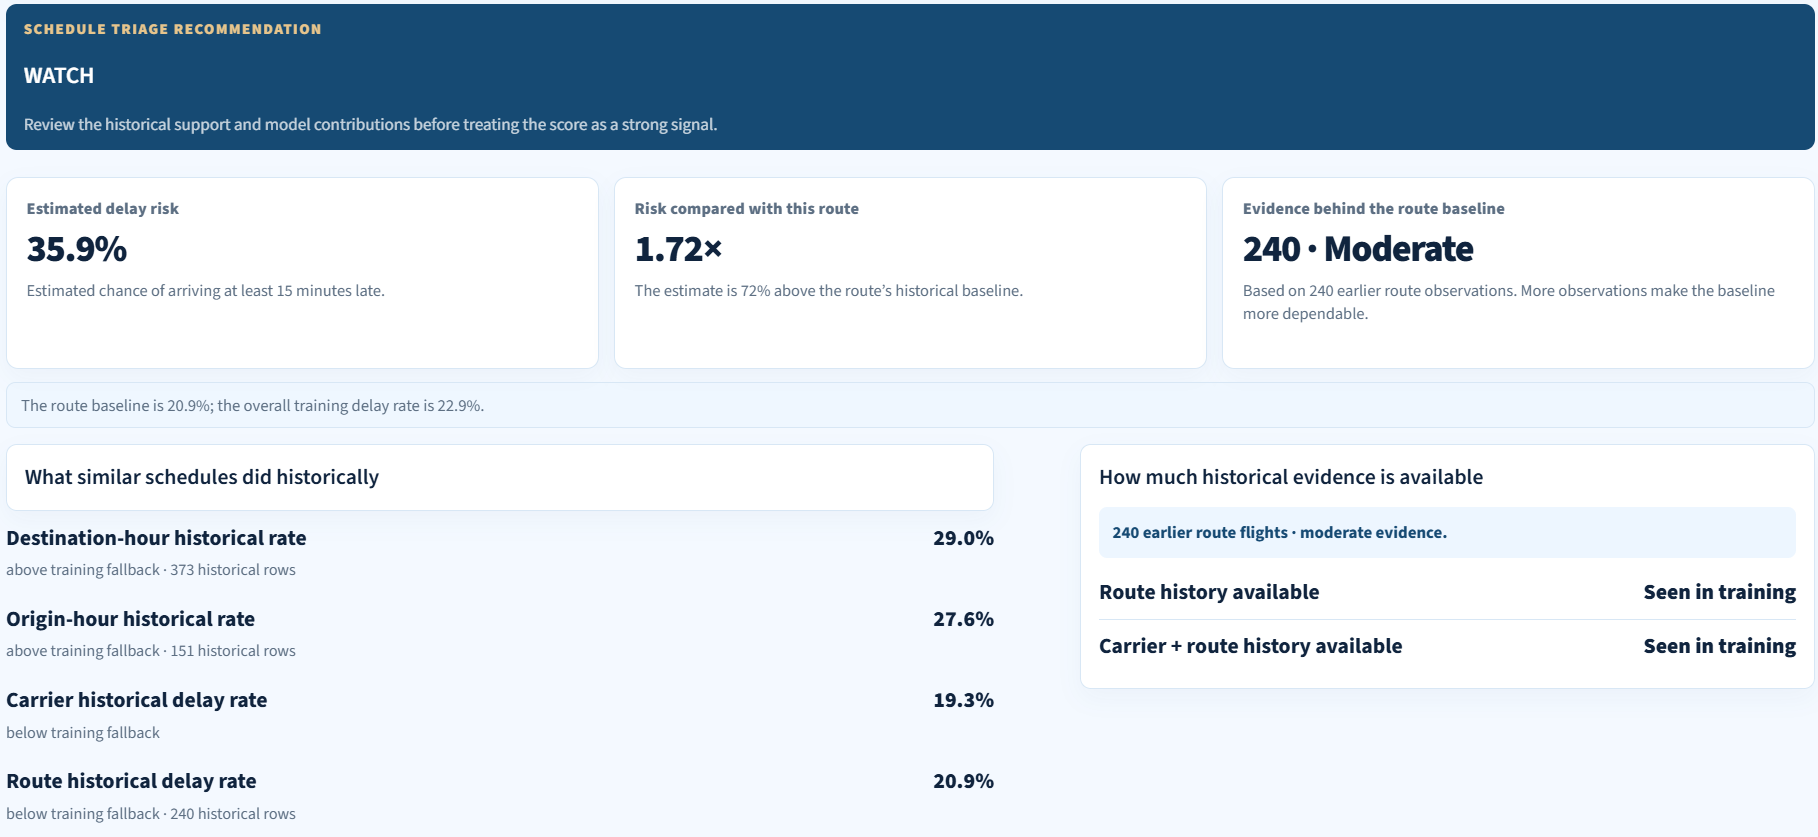
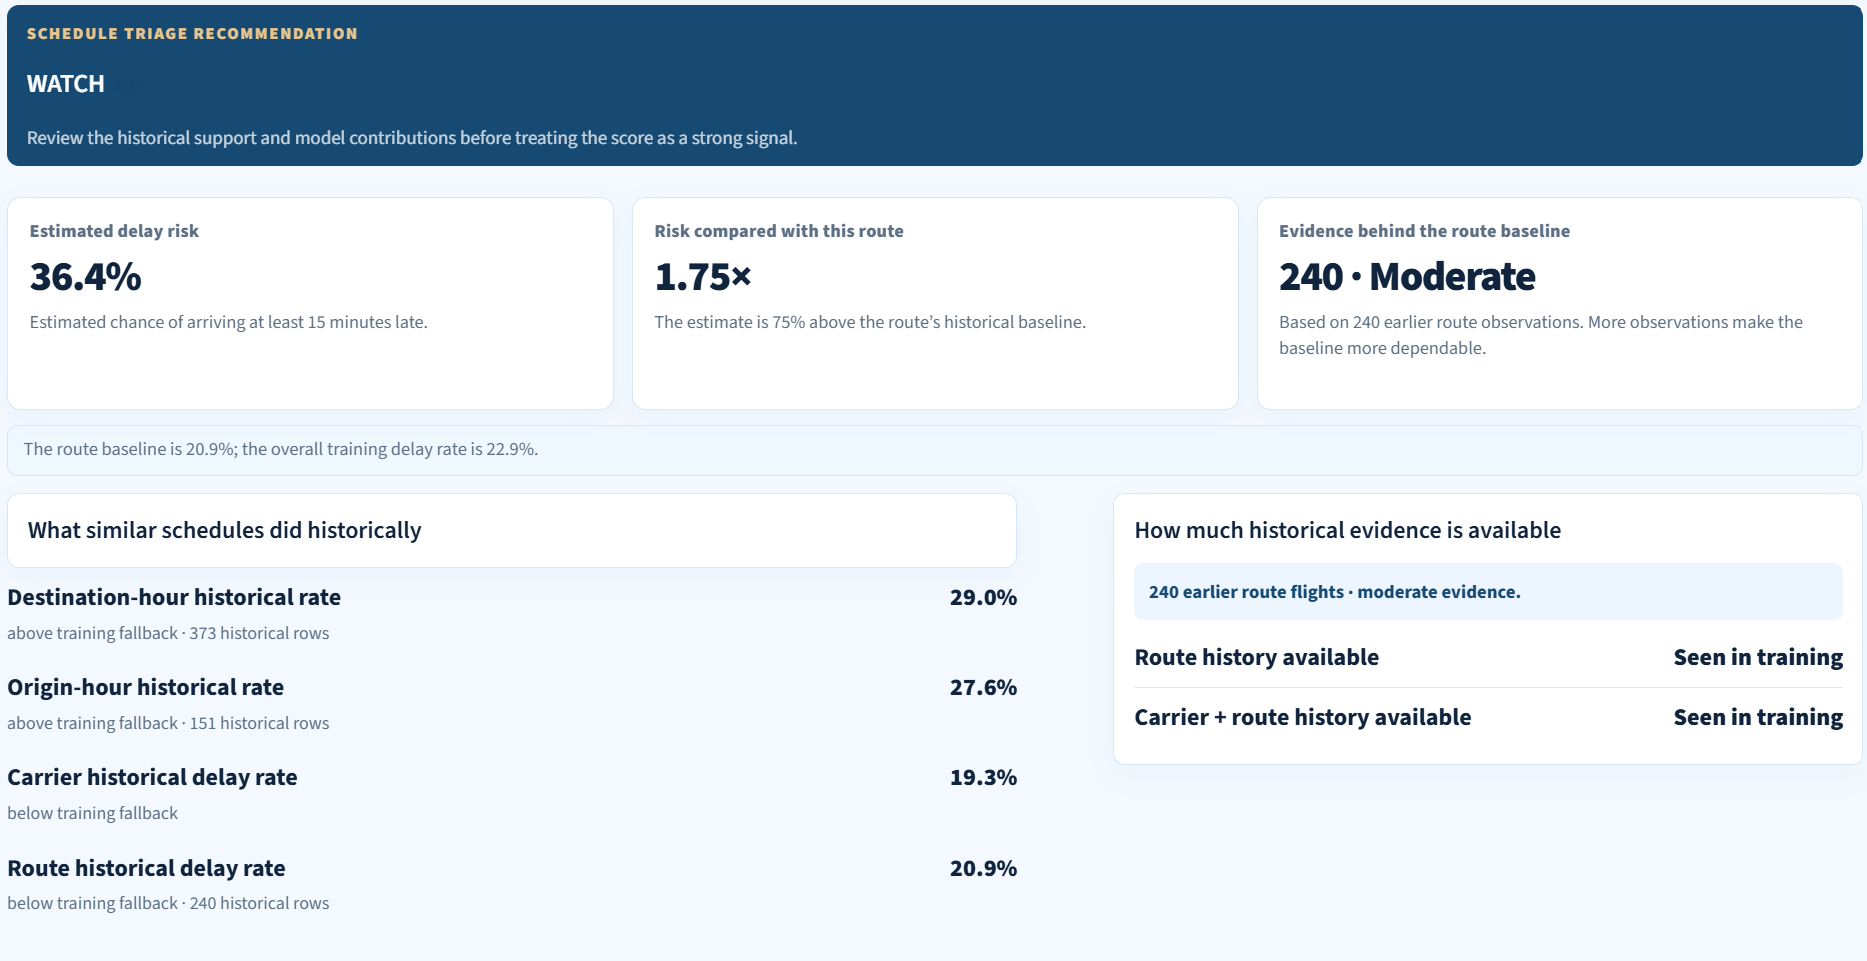
docs: finalize weather sources, evidence, and screenshots

diff --git a/README.md b/README.md
@@ -1,6 +1,6 @@
 <div align="center">
 
-[BTS source data](https://www.transtats.bts.gov/DL_SelectFields.aspx?gnoyr_VQ=FGJ) · **7,079,081 source rows** · **168,519-flight deployed refit** · **50,453-flight untouched test**
+[BTS flight data](https://www.transtats.bts.gov/DL_SelectFields.aspx?gnoyr_VQ=FGJ) · [NOAA/NCEI Global Hourly weather](https://www.ncei.noaa.gov/products/land-based-station/integrated-surface-database) · **7,079,081 source flights** · **6,965,267 cleaned flights** · **348 model-supported airports** · **20 NOAA-mapped airports**
 
 # Flight Delay Risk
 
@@ -44,7 +44,7 @@ The product answers one practical question:
 - scores **published scheduled flights** using only data that should exist **before departure**;
 - exposes the **historical support** behind the baseline so weak-evidence routes are visible;
 - supports both **single-flight analysis** and **schedule ranking**;
-- shows **point-in-time weather evidence** when available and keeps the weather model as a separate, optional artifact;
+- shows **point-in-time weather evidence** when available and exposes a separate paired diagnostic for the incremental weather signal;
 - publishes the release evidence: preprocessing assumptions, temporal validation, calibration and monitoring.
 
 ### What the system does *not* do
@@ -85,9 +85,15 @@ Enter natural schedule fields. Calendar and model features are derived automatic
 - risk relative to the historical route baseline;
 - the number of prior flights supporting that reference;
 - factors that raised and reduced the estimate;
+- origin and destination weather observations available at the declared cutoff;
+- one official deployed prediction plus a separate paired weather-signal diagnostic when both frozen companion artifacts are available;
 - a bilingual PDF brief.
 
 ![Single-flight decision summary with historical evidence](docs/assets/readme_analyze.png)
+
+The official deployed score remains the only product prediction. Weather is shown separately as an incremental diagnostic measured inside a matched companion pair; the diagnostic must not be added to, subtracted from or treated as a replacement for the official score.
+
+![Point-in-time weather context and incremental paired diagnostic](docs/assets/readme_weather_context.png)
 
 ### 3. Explore airport history without leaving the flow
 
@@ -118,32 +124,55 @@ The final two views expose chronological folds, calibration, baseline comparison
 
 ## Weather upgrade
 
-Weather is treated as a leakage-sensitive data product rather than a decorative feed. For every flight, the pipeline converts the scheduled origin departure into UTC, subtracts the declared six-hour prediction horizon and joins the latest eligible NOAA observation at both origin and destination. Observations newer than the cutoff are forbidden and observations older than six hours are marked unavailable.
+Weather is treated as a leakage-sensitive data product rather than a decorative feed. Historical observations come from the official [NOAA/NCEI Global Hourly Integrated Surface Database](https://www.ncei.noaa.gov/products/land-based-station/integrated-surface-database); the project downloads the required 2024 station files from NOAA's [yearly HTTPS archive](https://www.ncei.noaa.gov/pub/data/noaa/2024/).
+
+For every eligible flight, the pipeline converts the scheduled origin departure to UTC, subtracts the declared six-hour prediction horizon and joins the latest observation known at that cutoff for both origin and destination. Future observations are forbidden; observations older than six hours are marked unavailable. The current mapping covers **20 airports**, while the schedule-only model continues to support **348 airports**.
 
 The UI uses weather in three ways:
 
 1. **Single-flight evidence:** origin and destination temperature, wind, visibility, ceiling, precipitation, observation age and severe-condition flags.
-2. **Counterfactual model delta:** the frozen weather Extra Trees artifact is scored against the same schedule-only flight. The displayed delta is model behaviour, not causal impact.
-3. **Network exploration:** airport map layers and an airport × hour heatmap for delay rate, weather severity and weather-associated uplift.
+2. **Paired weather-signal diagnostic:** two frozen companion artifacts are evaluated on the same flight, but the UI exposes only their probability difference in percentage points. The hidden companion probabilities exist to isolate the incremental weather signal; they are not alternative product predictions and the delta must not be added to the deployed release score.
+3. **Network exploration:** airport map layers and an airport × hour matrix for delay rate, observed weather severity and weather-associated uplift.
 
-The weather model is kept as a separate artifact so the public schedule-only model remains available when NOAA data or the weather artifact is absent. The UI degrades transparently: raw weather observations remain visible, while the probability delta is labelled unavailable.
+The single-flight weather panel shown earlier uses the latest eligible observations known at the declared cutoff. It keeps the official deployed prediction visually separate from the experimental weather diagnostic.
+
+![Point-in-time weather severity by airport and scheduled hour](docs/assets/readme_weather_network.png)
+
+The screenshot above must be read as **historical point-in-time evidence**, not as a live forecast. Each row represents one airport for the selected origin or destination perspective; columns represent scheduled local hours; pale empty cells indicate insufficient historical support. The uplift layer is adverse-minus-clear association and is not causal attribution.
+
+The weather model remains a separate artifact so the public schedule-only release still works when NOAA observations or a weather companion artifact are absent. The UI degrades transparently: observations remain visible when available, while the paired weather signal is labelled unavailable if either companion model is missing. The official deployed risk is never replaced by the companion pair.
 
 ### Paired temporal evidence
 
-The weather upgrade was evaluated with identical rows, chronological folds, Extra Trees hyperparameters and random seed. No model-family selection occurred inside the folds.
+The final paired experiment uses a **1,406,680-flight complete-weather cohort** extracted from the canonical cleaned 2024 frame. Base and weather models use identical rows, expanding chronological folds, frozen Extra Trees hyperparameters and the same random seed. No model-family selection occurs inside the folds.
 
 | Three-fold paired result | Base | Base + weather | Mean delta | Weather wins |
 |---|---:|---:|---:|---:|
-| ROC-AUC | 0.6430 | 0.6486 | **+0.0056** | **3 / 3** |
-| PR-AUC | 0.3104 | 0.3156 | **+0.0052** | **3 / 3** |
-| Lift@10% | 1.704× | 1.753× | **+0.049×** | **2 / 3** |
-| Brier score | 0.21730 | 0.21683 | **−0.00047** | **2 / 3** |
+| ROC-AUC | 0.6553 | 0.6597 | **+0.0044** | **3 / 3** |
+| PR-AUC | 0.3238 | 0.3287 | **+0.0049** | **3 / 3** |
+| Lift@10% | 1.773× | 1.820× | **+0.047×** | **3 / 3** |
+| Brier score | 0.22107 | 0.21955 | **−0.00152** | **2 / 3** |
 
-The conclusion is deliberately narrow: point-in-time weather adds a modest but temporally consistent ranking signal. It does not transform the task into a deterministic flight-delay forecast.
+The conclusion is deliberately narrow: leakage-safe point-in-time weather adds a **modest but reproducible incremental ranking signal**. It improves ROC-AUC, PR-AUC and Lift@10% in all three future folds, but it does not turn the task into a deterministic flight-delay forecast.
+
+### Frozen weather-release holdout
+
+The two persistent companion artifacts used by the UI were trained on the same complete-weather protocol and evaluated on a later **286,367-flight** holdout. This is separate from the deployed public-release score and exists only to operationalize the paired diagnostic.
+
+| Holdout metric | Schedule-only companion | Companion + weather | Delta |
+|---|---:|---:|---:|
+| ROC-AUC | 0.6235 | 0.6312 | **+0.0077** |
+| PR-AUC | 0.2509 | 0.2627 | **+0.0118** |
+| Lift@10% | 1.698× | 1.761× | **+0.063×** |
+| Brier score | 0.14253 | 0.14179 | **−0.00073** |
+
+The dashboard therefore shows one official deployed prediction and one **separate incremental weather signal**. It does not expose the companion probabilities as competing answers.
 
 ### Why the weather evaluation is fair
 
-The weather comparison is **paired by design**. The base model and the base-plus-weather model are trained on the **same rows**, with the **same chronological splits**, the **same Extra Trees hyperparameters** and the **same random seed**. That means the delta reflects the added information content of the point-in-time weather features, not a second round of model-family fishing.
+The comparison is **paired by design**. The schedule-only and weather models are trained on the **same complete-weather rows**, with the **same chronological splits**, the **same Extra Trees hyperparameters** and the **same random seed**. This isolates the incremental information content of weather instead of starting a second model-selection tournament.
+
+[Inspect the full paired weather report](reports/paired_weather_backtest_extra_trees.md)
 
 Build the compact UI analytics artifact:
 
@@ -215,11 +244,23 @@ The source and the deployed training sample are related, but they are not the sa
 | **Calibration** | **31,028** | Later holdout used to choose sigmoid calibration, then refit. |
 | **Final test** | **50,453** | Untouched October–December evaluation window. |
 
-The target is `ArrDel15 = 1` when arrival is at least 15 minutes late. Raw CSVs and the processed parquet are intentionally excluded from Git; the committed manifest records source hashes, row totals, schema, calendar coverage and the processed-data fingerprint.
+The target is `ArrDel15 = 1` when arrival is at least 15 minutes late. Raw flight CSVs, raw NOAA station files and large processed parquets are intentionally excluded from Git; the committed manifests and mapping files record lineage, schema and coverage without pretending the raw data are bundled with the repository.
+
+### Weather source and coverage
+
+| Weather layer | Coverage | Role |
+|---|---:|---|
+| **NOAA-mapped airports** | **20** | Airports linked to an official Global Hourly station and timezone. |
+| **Complete-weather paired cohort** | **1,406,680 flights** | Flights with valid point-in-time observations at both endpoints used for the frozen paired backtest. |
+| **Prediction horizon** | **6 hours** | Weather must have been observable at or before this pre-departure cutoff. |
+| **Maximum observation age** | **6 hours** | Older observations are marked unavailable rather than silently forward-filled. |
 
 - [Download BTS flight records](https://www.transtats.bts.gov/DL_SelectFields.aspx?gnoyr_VQ=FGJ)
+- [Open the NOAA/NCEI Global Hourly dataset](https://www.ncei.noaa.gov/products/land-based-station/integrated-surface-database)
+- [Browse the NOAA 2024 HTTPS archive used by the downloader](https://www.ncei.noaa.gov/pub/data/noaa/2024/)
 - [Read the data contract](docs/DATA.md)
 - [Inspect the processed-data manifest](data/processed/data_manifest.json)
+- [Inspect the airport-to-station mapping](data/weather/airport_station_map.csv)
 
 ## Model comparison
 

diff --git a/README_ES.md b/README_ES.md
@@ -1,6 +1,6 @@
 <div align="center">
 
-[Fuente BTS](https://www.transtats.bts.gov/DL_SelectFields.aspx?gnoyr_VQ=FGJ) · **7.079.081 filas fuente** · **refit desplegado con 168.519 vuelos** · **test intacto de 50.453 vuelos**
+[Datos de vuelos BTS](https://www.transtats.bts.gov/DL_SelectFields.aspx?gnoyr_VQ=FGJ) · [Meteorología NOAA/NCEI Global Hourly](https://www.ncei.noaa.gov/products/land-based-station/integrated-surface-database) · **7.079.081 vuelos originales** · **6.965.267 vuelos limpios** · **348 aeropuertos del modelo** · **20 aeropuertos mapeados a NOAA**
 
 # Flight Delay Risk
 
@@ -70,9 +70,15 @@ Introduce campos naturales del horario; las features de calendario y del modelo 
 - riesgo frente al baseline histórico de la ruta;
 - número de vuelos previos que sustentan esa referencia;
 - factores que elevaron y redujeron la estimación;
+- observaciones meteorológicas de origen y destino disponibles en el cutoff declarado;
+- una única predicción oficial desplegada y un diagnóstico separado de señal weather cuando están disponibles los dos artefactos compañeros congelados;
 - informe PDF bilingüe.
 
 ![Resumen de decisión para un vuelo con evidencia histórica](docs/assets/readme_analyze.png)
+
+El score desplegado sigue siendo la única predicción del producto. La meteorología aparece aparte como diagnóstico incremental medido dentro de un par de modelos compañeros; el delta no debe sumarse, restarse ni utilizarse como sustituto del score oficial.
+
+![Contexto meteorológico point-in-time y diagnóstico incremental emparejado](docs/assets/readme_weather_context.png)
 
 ### 3. Explorar el histórico aeroportuario sin salir del flujo
 
@@ -97,16 +103,55 @@ Las dos últimas vistas exponen folds cronológicos, calibración, comparación 
 
 ## Mejora meteorológica
 
-La meteorología se integra con un contrato point-in-time: se calcula el cutoff seis horas antes de la salida programada y solo se adjunta la última observación NOAA conocida en ese momento. Las observaciones futuras están prohibidas y las que superan seis horas de antigüedad se marcan como no disponibles.
+La meteorología se trata como un producto de datos sensible al leakage, no como un feed decorativo. Las observaciones históricas proceden de [NOAA/NCEI Global Hourly Integrated Surface Database](https://www.ncei.noaa.gov/products/land-based-station/integrated-surface-database), y el proyecto descarga los archivos de estaciones de 2024 necesarios desde el [archivo HTTPS anual de NOAA](https://www.ncei.noaa.gov/pub/data/noaa/2024/).
 
-La UI incorpora:
+Para cada vuelo elegible, el pipeline convierte la salida programada del origen a UTC, resta el horizonte declarado de seis horas y une la última observación conocida en ese cutoff tanto en origen como en destino. Las observaciones futuras están prohibidas y las que superan seis horas de antigüedad se marcan como no disponibles. El mapping actual cubre **20 aeropuertos**, mientras que el modelo schedule-only mantiene soporte para **348 aeropuertos**.
 
-1. tarjetas de condiciones en origen y destino;
-2. delta contrafactual entre el modelo sin weather y el Extra Trees weather congelado;
-3. capas de mapa para retraso, severidad y uplift asociado al weather;
-4. heatmap aeropuerto × hora.
+La UI utiliza weather de tres formas:
 
-El uplift es una asociación descriptiva, no causalidad. En el backtest temporal emparejado de tres folds, weather mejoró ROC-AUC y PR-AUC en **3/3 folds**, Lift@10% en **2/3** y Brier en **2/3**. Los deltas medios fueron **+0.0056 ROC-AUC**, **+0.0052 PR-AUC**, **+0.049 Lift@10%** y **−0.00047 Brier**.
+1. **Evidencia para un vuelo:** temperatura, viento, visibilidad, techo, precipitación, antigüedad de la observación y flags severos en origen y destino.
+2. **Diagnóstico emparejado de señal weather:** dos artefactos compañeros congelados evalúan el mismo vuelo, pero la UI expone únicamente su diferencia de probabilidad en puntos porcentuales. Las probabilidades internas existen para aislar la información incremental del weather; no son predicciones alternativas y el delta no debe sumarse al score desplegado.
+3. **Exploración de red:** capas del mapa y matriz aeropuerto × hora para retraso, severidad meteorológica observada y uplift asociado al weather.
+
+El panel meteorológico de vuelo mostrado anteriormente utiliza las últimas observaciones elegibles conocidas en el cutoff declarado. Mantiene visualmente separada la predicción oficial del diagnóstico experimental weather.
+
+![Severidad meteorológica point-in-time por aeropuerto y hora programada](docs/assets/readme_weather_network.png)
+
+La captura anterior representa **evidencia histórica point-in-time**, no una previsión en vivo. Cada fila corresponde a un aeropuerto para la perspectiva de origen o destino seleccionada; las columnas son horas locales programadas y las celdas claras vacías indican soporte histórico insuficiente. El uplift es una asociación entre condiciones adversas y despejadas, no atribución causal.
+
+El modelo weather se mantiene como artefacto separado. Así, la release pública schedule-only continúa funcionando cuando faltan observaciones NOAA o algún artefacto compañero. La UI degrada de forma transparente: muestra observaciones cuando existen y marca la señal emparejada como no disponible si falta alguno de los dos modelos. El riesgo oficial desplegado nunca se sustituye por el par experimental.
+
+### Evidencia temporal emparejada
+
+El experimento final utiliza una **cohorte complete-weather de 1.406.680 vuelos** extraída del frame canónico limpio de 2024. Ambos modelos usan las mismas filas, folds cronológicos expanding-window, hiperparámetros Extra Trees congelados y la misma semilla. No se selecciona ninguna familia de modelos dentro de los folds.
+
+| Resultado emparejado en tres folds | Base | Base + weather | Delta medio | Gana weather |
+|---|---:|---:|---:|---:|
+| ROC-AUC | 0,6553 | 0,6597 | **+0,0044** | **3 / 3** |
+| PR-AUC | 0,3238 | 0,3287 | **+0,0049** | **3 / 3** |
+| Lift@10% | 1,773× | 1,820× | **+0,047×** | **3 / 3** |
+| Brier score | 0,22107 | 0,21955 | **−0,00152** | **2 / 3** |
+
+La conclusión es deliberadamente limitada: la meteorología point-in-time sin leakage añade una **señal incremental modesta pero reproducible**. Mejora ROC-AUC, PR-AUC y Lift@10% en los tres folds futuros, pero no convierte el problema en una predicción determinista de retrasos.
+
+### Holdout de los artefactos weather congelados
+
+Los dos artefactos compañeros persistentes que utiliza la UI se entrenaron bajo el mismo protocolo complete-weather y se evaluaron sobre un holdout posterior de **286.367 vuelos**. Esta evaluación está separada del score de la release pública y existe únicamente para operacionalizar el diagnóstico emparejado.
+
+| Métrica del holdout | Compañero schedule-only | Compañero + weather | Delta |
+|---|---:|---:|---:|
+| ROC-AUC | 0,6235 | 0,6312 | **+0,0077** |
+| PR-AUC | 0,2509 | 0,2627 | **+0,0118** |
+| Lift@10% | 1,698× | 1,761× | **+0,063×** |
+| Brier score | 0,14253 | 0,14179 | **−0,00073** |
+
+Por tanto, el dashboard muestra una única predicción oficial desplegada y una **señal weather incremental separada**. No presenta las probabilidades compañeras como respuestas competidoras.
+
+### Por qué la comparación es justa
+
+La evaluación está **emparejada por diseño**. Los modelos schedule-only y weather se entrenan con las **mismas filas complete-weather**, los **mismos splits cronológicos**, los **mismos hiperparámetros Extra Trees** y la **misma semilla**. Así se aísla la información incremental de la meteorología sin abrir una segunda competición de selección de modelos.
+
+[Consultar el informe completo del backtest weather emparejado](reports/paired_weather_backtest_extra_trees.md)
 
 ```powershell
 python -m scripts.build_weather_ui_summary `
@@ -117,7 +162,7 @@ python -m scripts.train_weather_release `
   --data data/processed/flights_with_weather_2024.parquet
 ```
 
-El segundo comando genera dos artefactos emparejados sobre las mismas filas y particiones temporales:
+Los modelos emparejados se guardan en:
 
 ```text
 models/flightrisk_model_weather_base.joblib
@@ -170,11 +215,23 @@ La fuente y la muestra utilizada por el artefacto público están relacionadas, 
 | **Calibración** | **31.028** | Holdout posterior para elegir sigmoid y reajustarlo. |
 | **Test final** | **50.453** | Ventana intacta entre octubre y diciembre. |
 
-El target es `ArrDel15 = 1` cuando la llegada tiene al menos 15 minutos de retraso. Los CSV crudos y el parquet se excluyen deliberadamente de Git; el manifiesto registra hashes, filas, esquema, cobertura y fingerprint del dataset procesado.
+El target es `ArrDel15 = 1` cuando la llegada tiene al menos 15 minutos de retraso. Los CSV crudos de vuelos, los archivos crudos de estaciones NOAA y los parquets grandes se excluyen deliberadamente de Git; los manifests y mappings versionados documentan lineage, esquema y cobertura sin fingir que los datos crudos forman parte del repositorio.
 
-- [Descargar registros BTS](https://www.transtats.bts.gov/DL_SelectFields.aspx?gnoyr_VQ=FGJ)
+### Fuente meteorológica y cobertura
+
+| Capa weather | Cobertura | Función |
+|---|---:|---|
+| **Aeropuertos mapeados a NOAA** | **20** | Aeropuertos enlazados a una estación oficial Global Hourly y su zona horaria. |
+| **Cohorte emparejada complete-weather** | **1.406.680 vuelos** | Vuelos con observaciones point-in-time válidas en ambos extremos utilizados en el backtest congelado. |
+| **Horizonte de predicción** | **6 horas** | La observación debe estar disponible antes o en este cutoff previo a la salida. |
+| **Antigüedad máxima** | **6 horas** | Las observaciones más antiguas se marcan como no disponibles y no se rellenan silenciosamente. |
+
+- [Descargar registros de vuelos BTS](https://www.transtats.bts.gov/DL_SelectFields.aspx?gnoyr_VQ=FGJ)
+- [Abrir NOAA/NCEI Global Hourly](https://www.ncei.noaa.gov/products/land-based-station/integrated-surface-database)
+- [Explorar el archivo HTTPS de NOAA 2024 usado por el downloader](https://www.ncei.noaa.gov/pub/data/noaa/2024/)
 - [Leer el contrato de datos](docs/DATA.md)
 - [Inspeccionar el manifiesto procesado](data/processed/data_manifest.json)
+- [Inspeccionar el mapping aeropuerto-estación](data/weather/airport_station_map.csv)
 
 ## Comparación de modelos
 
